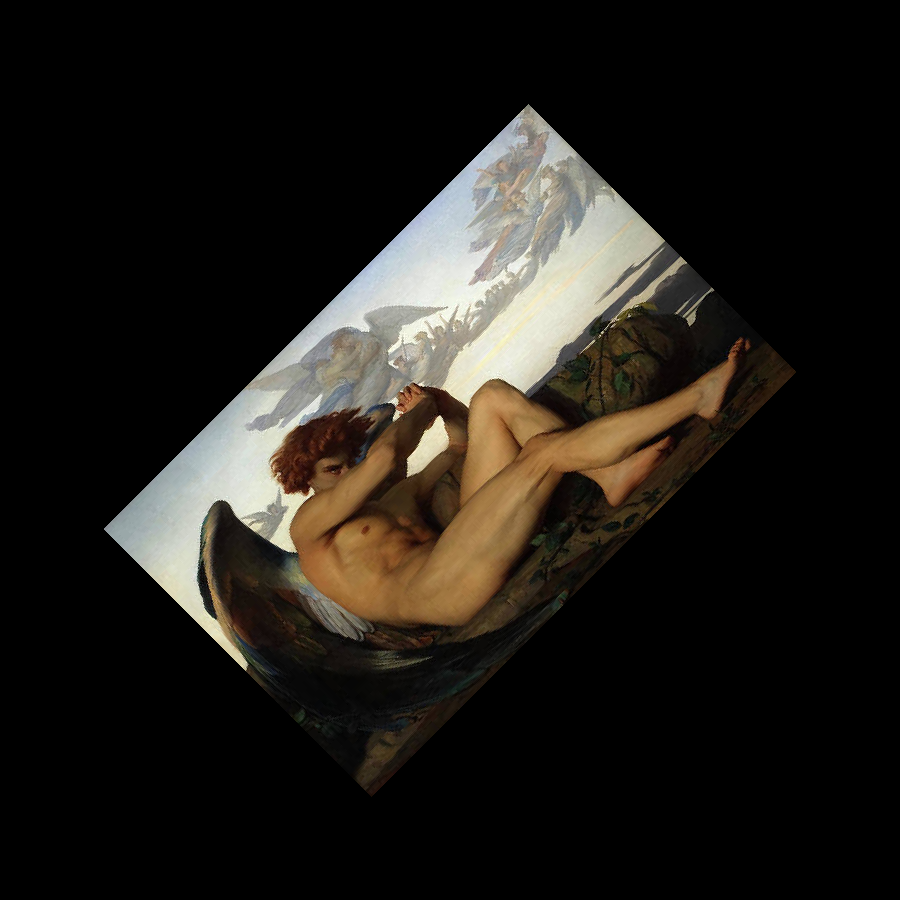
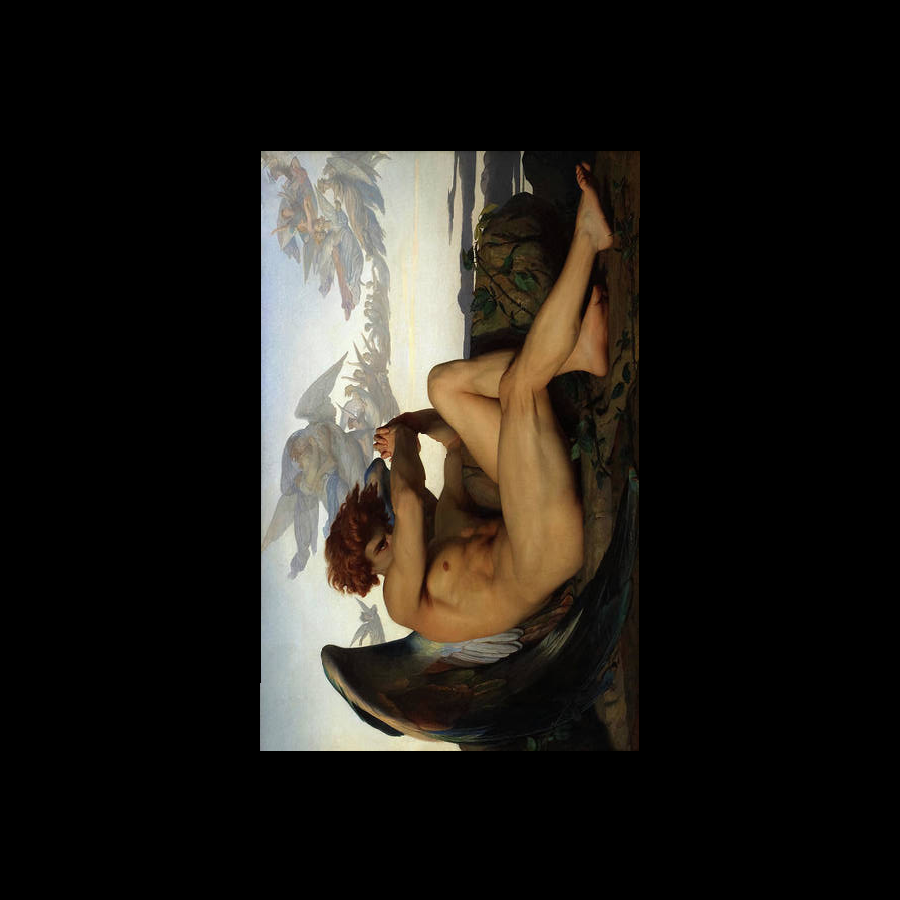
split into functions

Changed region(s): [[0.1244, 0.1244, 0.9022, 0.9022], [0.5911, 0.8089, 0.6222, 0.84]]

diff --git a/rotationFunc.py b/rotationFunc.py
@@ -1,64 +1,179 @@
-# import cv2
-# import numpy
-# import numpy as np
-# from matrixMult import matrixMult
-# image = cv2.imread("fallen-angel.jpg")
-# numRows = image.shape[0]  # height of image
-# numCols = image.shape[1]  # width of image
-# # Scaling Factor to determine image size
-# scalingFactor = 1.5
-# # Max Dimensions
-# maxDim = max(numRows, numCols)
-# # Image size scaled
-# scaledSize = int(scalingFactor * maxDim)
-# # Center original image in new image by using offsets
-# offsetb = (scaledSize - numRows) // 2
-# offseta = (scaledSize - numCols) // 2
-# print("size: ", numRows, numCols)
-# 
-# ###Create an empty image of scaledSize
-# emptyIm = np.zeros((scaledSize, scaledSize, 3), np.float32)
-# image2 = np.zeros((scaledSize, scaledSize, 3), np.float32)
-# scaledSize2 = scaledSize // 2
-# 
-# ### iterate through pixels and change colors
-# for b in range(numRows):  # height of the image, y coordinates
-#     for a in range(numCols):  # width of the image, x coordinates
-#         emptyIm[b + offsetb][a + offseta] = image[b][a]
-# sum = 0
-# angle = 45
-# rotations = 1
-# rotationMatrix = np.array([[np.cos(np.deg2rad(angle)), np.sin(np.deg2rad(-angle))],
-#                     [np.sin(np.deg2rad(angle)), np.cos(np.deg2rad(angle))]])
-# 
-# for i in range(scaledSize):  # height of the image, y coordinates
-#     for j in range(scaledSize):  # width of the image, x coordinates
-#         # newEmptyIm must be the image we saved so that we can rotate THAT image
-#         imageMatrix = np.array([[j - scaledSize2], [i - scaledSize2]])
-#         # image2[i][j] = image1[i-scaledSize2][j-scaledSize2] #shifted
-#         rotatedPoint = matrixMult(rotationMatrix, imageMatrix)  # rotatedPoint logic to get matrix of new points
-#         r0 = int(rotatedPoint[0][0]) + scaledSize2
-#         r1 = int(rotatedPoint[1][0]) + scaledSize2
-#         r2 = rotatedPoint[0][0] + scaledSize2
-#         r3 = rotatedPoint[1][0] + scaledSize2
-# 
-#         blueValueInitial = emptyIm[i][j][0]
-#         greenValueInitial = emptyIm[i][j][1]
-#         redValueInitial = emptyIm[i][j][2]
-# 
-#         finalError = (r2 - r0 + r3 - r1) / scaledSize * rotations
-#         if (r0 >= scaledSize or r1 >= scaledSize) or (r0 < 0 or r1 < 0):
-#             continue
-#         image2[i][j] = emptyIm[r1][r0]  # finalPoint logic
-# 
-#         redValueFinal = image2[i][j][0]
-#         greenValueFinal = image2[i][j][1]
-#         blueValueFinal = image2[i][j][2]
-#         colorError = np.sqrt((redValueFinal - redValueInitial) ** 2 + (greenValueFinal - greenValueInitial) ** 2 + (
-#                 blueValueFinal - blueValueInitial) ** 2)
-#         sum += colorError
-# #display image
-# cv2.imshow("Copied image", image2/255.0) #ensure image is /255 to display properly
-# cv2.imwrite("savedimage.png", image2)
-# cv2.waitKey(0) #pauses program until enter key is hit
-# cv2.destroyAllWindows() #stops all programs imshow
+import cv2
+import numpy as np
+from matrixMult import matrixMult
+
+def getScaledImageAndSize(image):
+    # Image Dimensions
+    numRows = image.shape[0]  # height of image
+    numCols = image.shape[1]  # width of image
+
+    # Scaling Factor to determine image size
+    scalingFactor = 1.5
+
+    # Image size scaled
+    scaledSize = int(scalingFactor * max(numRows, numCols))
+
+    # Center original image in new image by using offsets
+    scaledImage = np.zeros((scaledSize, scaledSize, 3), np.float32)
+    return scaledImage, scaledSize
+
+def rotate(scaledImage, scaledSize, angle):
+    numRows = iImage.shape[0]  # height of image
+    numCols = iImage.shape[1]  # width of image
+
+    #
+    ###Create an empty image of scaledSize
+    rotatedImage = np.zeros((scaledSize, scaledSize, 3), np.float32)
+    scaledSize2 = scaledSize // 2
+
+    offsetb = (scaledSize - numRows) // 2
+    offseta = (scaledSize - numCols) // 2
+    print("size: ", numRows, numCols)
+
+    ### iterate through pixels and change colors
+    for b in range(numRows):  # height of the image, y coordinates
+        for a in range(numCols):  # width of the image, x coordinates
+            scaledImage[b + offsetb][a + offseta] = iImage[b][a]
+    colorCorrection = 0
+    rotations = 1
+    rotationMatrix = np.array([[np.cos(np.deg2rad(angle)), np.sin(np.deg2rad(-angle))],
+                        [np.sin(np.deg2rad(angle)), np.cos(np.deg2rad(angle))]])
+
+    for i in range(scaledSize):  # height of the image, y coordinates
+        for j in range(scaledSize):  # width of the image, x coordinates
+            # newEmptyIm must be the image we saved so that we can rotate THAT image
+            imageMatrix = np.array([[j - scaledSize2], [i - scaledSize2]])
+            # image2[i][j] = image1[i-scaledSize2][j-scaledSize2] #shifted
+            rotatedPoint = matrixMult(rotationMatrix, imageMatrix)  # rotatedPoint logic to get matrix of new points
+            r0 = int(rotatedPoint[0][0]) + scaledSize2
+            r1 = int(rotatedPoint[1][0]) + scaledSize2
+            r2 = rotatedPoint[0][0] + scaledSize2
+            r3 = rotatedPoint[1][0] + scaledSize2
+
+            blueValueInitial = scaledImage[i][j][0]
+            greenValueInitial = scaledImage[i][j][1]
+            redValueInitial = scaledImage[i][j][2]
+
+            finalError = (r2 - r0 + r3 - r1) / scaledSize * rotations
+            if (r0 >= scaledSize or r1 >= scaledSize) or (r0 < 0 or r1 < 0):
+                continue
+            rotatedImage[i][j] = scaledImage[r1][r0]  # finalPoint logic
+
+            redValueFinal = rotatedImage[i][j][0]
+            greenValueFinal = rotatedImage[i][j][1]
+            blueValueFinal = rotatedImage[i][j][2]
+            colorError = np.sqrt((redValueFinal - redValueInitial) ** 2 + (greenValueFinal - greenValueInitial) ** 2 + (
+                    blueValueFinal - blueValueInitial) ** 2)
+            colorCorrection += colorError
+
+    return rotatedImage, colorCorrection, finalError
+
+
+iImage = cv2.imread("fallen-angel.jpg")
+output = getScaledImageAndSize(iImage)
+(scaledImage, scaledSize) = output
+(rotatedImage, colorCorrection, finalError) = rotate(scaledImage, scaledSize, 90)
+
+#display image
+cv2.imshow("Copied image", rotatedImage / 255.0) #ensure image is /255 to display properly
+cv2.imwrite("savedimage.png", rotatedImage)
+cv2.waitKey(0) #pauses program until enter key is hit
+cv2.destroyAllWindows() #stops all programs imshow
+
+#------------------------------
+# def getScaleSize(image, scalingFactor):
+#     numRows = image.shape[0]  # height of image
+#     numCols = image.shape[1]  # width of image
+#     return int(scalingFactor * max(numRows, numCols))
+#
+# def scale(image, scaledSize):
+#     #Center original image in new image by using offsets
+#     numRows = image.shape[0]
+#     numCols = image.shape[1]
+#     offsetb = (scaledSize - numRows) // 2
+#     offseta = (scaledSize - numCols) // 2
+#     print("size: ", numRows, numCols)
+#     ###Create an empty image of scaledSize
+#     scaledIm = np.zeros((scaledSize, scaledSize, 3), np.float32)
+#
+#     ### iterate through pixels and change colors
+#     for b in range(numRows):  # height of the image, y coordinates
+#         for a in range(numCols):  # width of the image, x coordinates
+#             scaledIm[b + offsetb][a + offseta] = image[b][a]
+#     return scaledIm
+#
+#
+# def rotate(image, degrees):
+#     sum = 0
+#     angle = 45
+#     rotations = 1
+#     rotationMatrix = np.array([[np.cos(np.deg2rad(angle)), np.sin(np.deg2rad(-angle))],
+#                         [np.sin(np.deg2rad(angle)), np.cos(np.deg2rad(angle))]])
+#
+#     scaledSize = image.shape[0] # it's a square now
+#     scaledSize2 = scaledSize/2
+#     scaledIm = np.zeros( (scaledSize, scaledSize, 3), np.float32)
+#     image2 = np.zeros( (scaledSize, scaledSize, 3), np.float32)
+#
+#     for i in range(scaledSize):  # height of the image, y coordinates
+#         for j in range(scaledSize):  # width of the image, x coordinates
+#             # newEmptyIm must be the image we saved so that we can rotate THAT image
+#             imageMatrix = np.array([[j - scaledSize2], [i - scaledSize2]])
+#             # image2[i][j] = image1[i-scaledSize2][j-scaledSize2] #shifted
+#             rotatedPoint = matrixMult(rotationMatrix, imageMatrix)  # rotatedPoint logic to get matrix of new points
+#             r0 = int(rotatedPoint[0][0]) + scaledSize2
+#             r1 = int(rotatedPoint[1][0]) + scaledSize2
+#             r2 = rotatedPoint[0][0] + scaledSize2
+#             r3 = rotatedPoint[1][0] + scaledSize2
+#
+#             blueValueInitial = scaledIm[i][j][0]
+#             greenValueInitial = scaledIm[i][j][1]
+#             redValueInitial = scaledIm[i][j][2]
+#
+#             finalError = (r2 - r0 + r3 - r1) / scaledSize * rotations
+#             if (r0 >= scaledSize or r1 >= scaledSize) or (r0 < 0 or r1 < 0):
+#                 continue
+#             image2[i][j] = scaledIm[r1][r0]  # finalPoint logic
+#
+#             redValueFinal = image2[i][j][0]
+#             greenValueFinal = image2[i][j][1]
+#             blueValueFinal = image2[i][j][2]
+#             colorError = np.sqrt((redValueFinal - redValueInitial) ** 2 + (greenValueFinal - greenValueInitial) ** 2 + (
+#                     blueValueFinal - blueValueInitial) ** 2)
+#             sum += colorError
+#
+#     return image2
+# def main():
+#     iImage = cv2.imread("fallen-angel.jpg")
+#     oImageScaleSize = getScaleSize(iImage, 1.5)
+#     oImage = scale(iImage, oImageScaleSize) ## in: image, scale; out: image
+#     # errors = []
+#
+#     oImage = rotate(oImage, 45)
+#
+#     #
+#     # for rotation in [15,30,45,60,90]:
+#     #     output = rotate(oImage, rotation).0 ## in: image. rotation; out: rotatedImage, accumulatedErrors
+#     #     oImage = output.0 ## update image
+#     #     errors.append(output.1) ## upate errors
+#     #     save(oImage, to: "145 Chimney Ln.png") ## save image
+#     #
+#     # return
+#
+#
+#     ## Display Output
+#     cv2.imshow("Copied image", oImage / 255.0)
+#     cv2.imwrite("savedimage.png", oImage)
+#     cv2.waitKey(0) #pauses program until enter key is hit
+#     cv2.destroyAllWindows() #stops all programs imshow
+#
+# main()
+# #
+# # iImage = ...
+# # oImage = scale(iImage, 1.5) # output == image
+# #
+# # iImageSize = size(iImage) # output is [int]
+# # oImageSize = size(oImage)
+#
+#
+#
